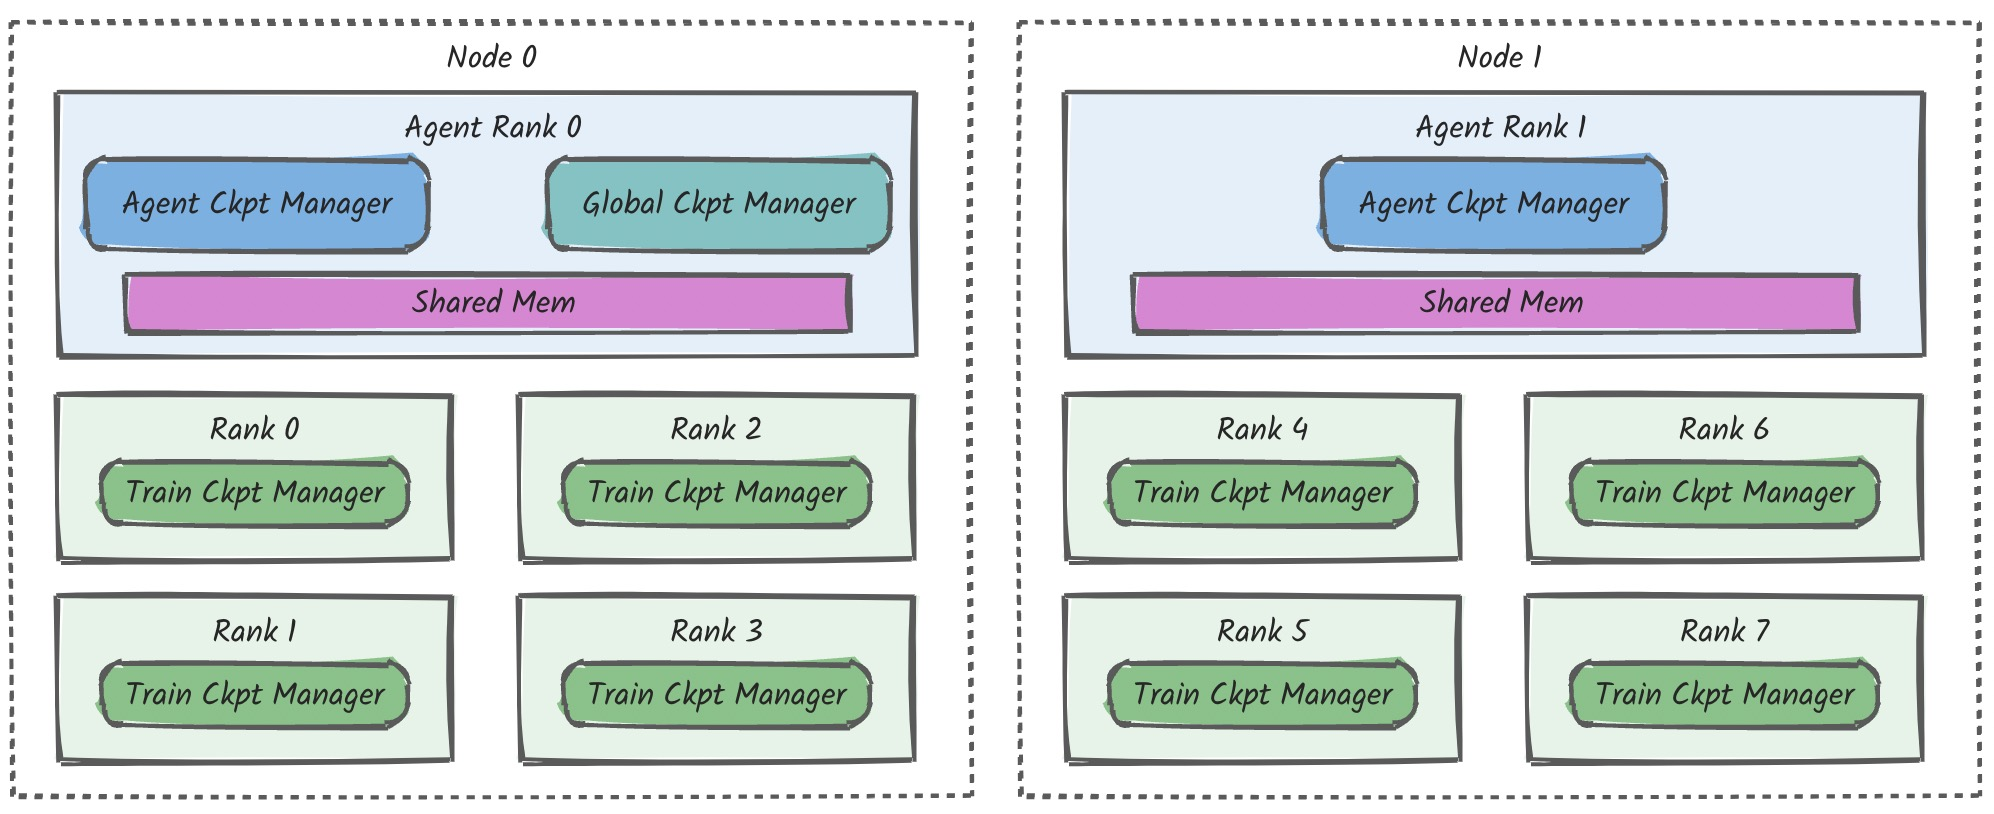
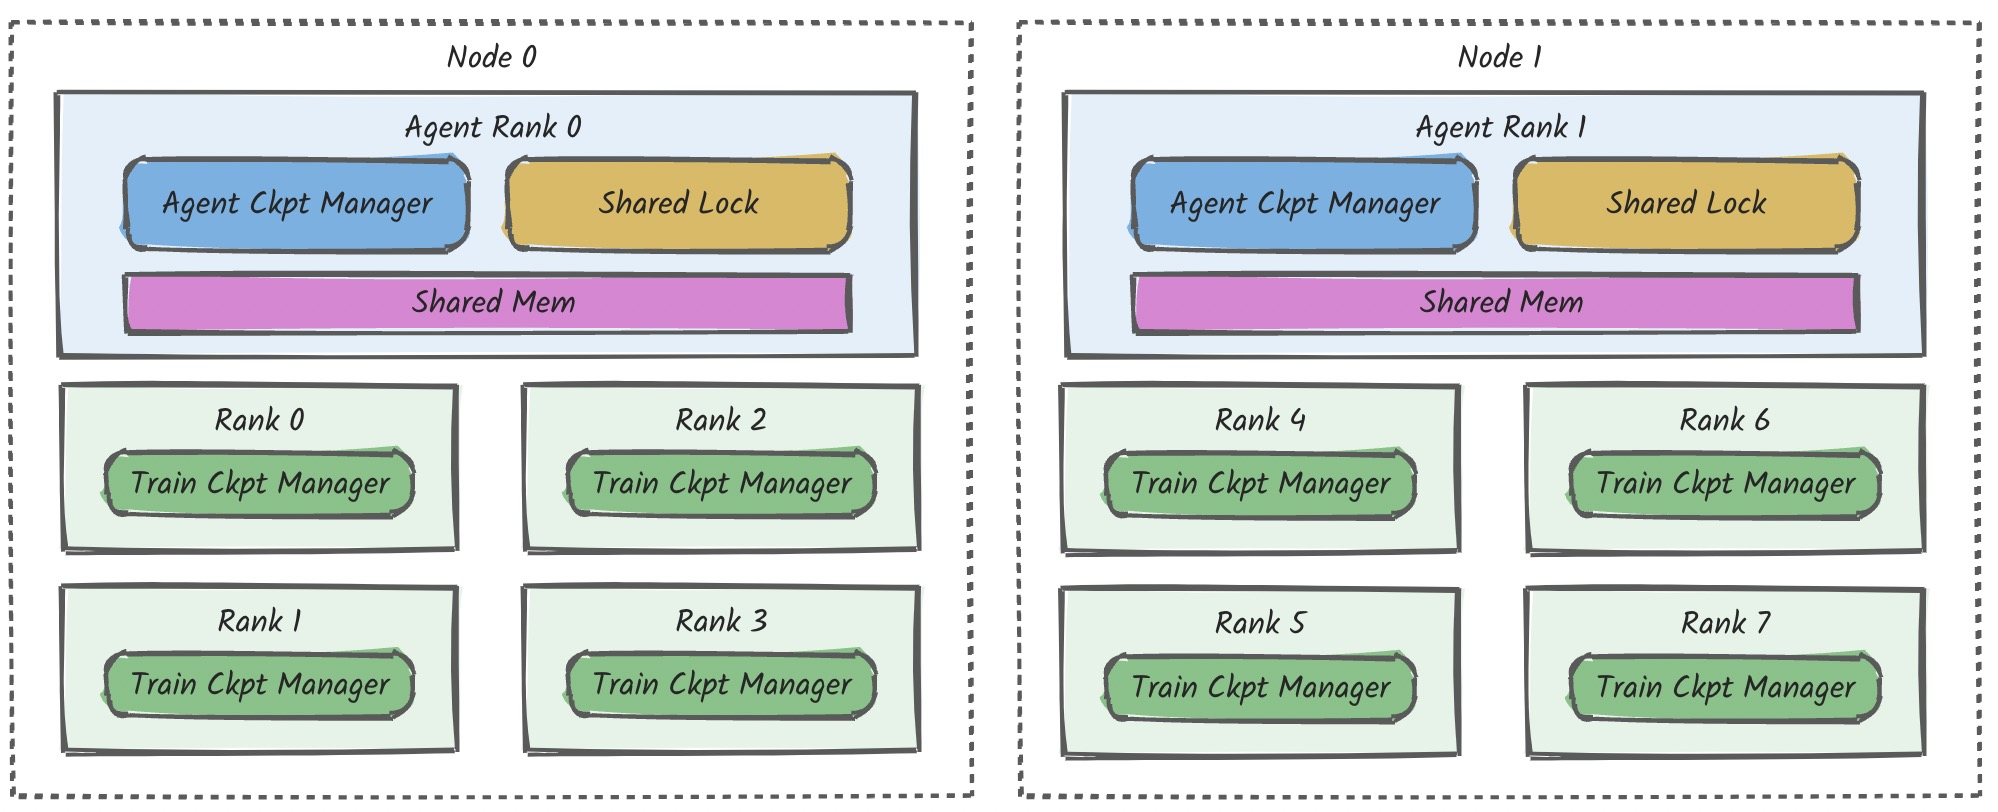
remove GlobalCkptManager

diff --git a/docs/design/async-checkpoint.md b/docs/design/async-checkpoint.md
@@ -143,20 +143,16 @@ implement the checkpointing process.
 <img src="../figures/async-ckpt-classes.jpg" alt="Async Checkpoint Classes" width="1000">
 </div>
 
-- **GlobalCkptManager**
-    - Only one instance runs in the Rank 0 Agent process.
-    - The class is responsible for keeping the consistency of the checkpointing state in the shared
-      memory and the storage.
-    - Get the read lock of shared memory and notify all agents to save the checkpointing state
-      into the storage, update the checkpointing tracker file in the storage.
 - **AgentCkptManger**
     - One instance runs in each agent process.
-    - Responsible for saving the checkpointing state from shared memory into the storage.
-    - Notify the GlobalCkptManager when the saving procedure is completed.
+      memory and the storage.
+    - Get the Shared lock of shared memory and save the checkpoint state into the storage.
+    - One of Agent check if all agents finish the writing and commit the checkpoint. 
+
 - **TrainCkptManger**
     - One instance runs in each training process.
-    - Responsible for saving the checkpointing state from GPU to shared memory.
-    - Notify the GlobalCkptManager when we need to save the checkpointing state into the storage.
+    - Is responsible for coping the checkpointing state from GPU to shared memory.
+    - Notifies the AgentCkptManger to save the checkpoint state into the storage.
 
 ### Async Checkpointing Saving Steps
 
@@ -166,29 +162,17 @@ implement the checkpointing process.
 
 The agent and training process need to do the following steps:
 
-- Init Process - first checkpoint to memory
-
-    - The agent monitors the training process to create the mata of model and
-      optimizer state dict.
-    - The training process notifies GlobalCkptManager the checkpointing meta when the
-      training process firstly saves the state dict into the memory.
-    - GlobalCkptManager acquire the lock of the shared memory and notify all agents to
-      allocate the shared memory with the checkpointing meta.
-    - The TrainCkptManger acquires the lock of the shared memory and copies the state dict
-      from GPU to the shared memory.
-
-- Training Loop
-
-    - TrainCkptManager acquires the lock of the shared memory and copies the state dict
-      from GPU to the shared memory.
-    - TrainCkptManager notifies GlobalCkptManager to save the checkpointing state into the
-      storage if the iteration step is multiple of the save_interval.
-    - GlobalCkptManager acquires the lock of the shared memory and notifies all agents to
-      save the checkpointing state into the storage.
-    - AgentCkptManger write the checkpointing state into the storage and notifies
-      GlobalCkptManager when finished.
-    - GlobalCkptManager commits the checkpointing and modify tracker file after all agents
-      finish the writing.
+1. The agent monitors the training process to create the mata of model and
+  optimizer state dict.
+2. TrainCkptManager acquires the shared lock and update the meta of model and optimizer
+  state dict.
+3. TrainCkptManager copy the state dict from GPU to the shared memory.
+4. TrainCkptManager releases the shared lock.
+5. TrainCkptManager notifies the AgentCkptManager to save the checkpointing state into the
+  storage.
+6. AgentCkptManager acquires the shared lock and write the checkpoint state into the storage.
+7. AgentCkptManager in rank 0 checks if all agents finish the writing and commit the checkpoint.
+8. AgentCkptManager releases the shared lock.
 
 The following figure shows the checkpointing process in sequence diagram.
 
@@ -199,16 +183,16 @@ The following figure shows the checkpointing process in sequence diagram.
 ### Last Words when the Training Process Fails
 
 When any of the training processes fails, or the agent is killed by SIGTERM, we can automatically
-save the latest checkpointing state into the storage.
+save the latest checkpoint state into the storage.
 
 ### Consistency of the Checkpointing State
 
-For the shared memory checkpointing consistency and correctness, we use a distributed lock
+For the shared memory checkpointing consistency and correctness, we use a shared lock
 to protect the shared memory. If the Agent writing process takes too long time, for training
 efficiency, the TrainCkptManager will skip a memory checkpointing and keep training.
 
 For the storage checkpointing consistency and correctness, every agent will write the checkpoint
-to a temporary directory, and the GlobalCkptManager will commit the checkpointing after all agents
+to a temporary directory, and one of the AgentCkptManager will commit the checkpointing after all agents
 finish the writing.
 
 ## Checkpoint APIs Design
